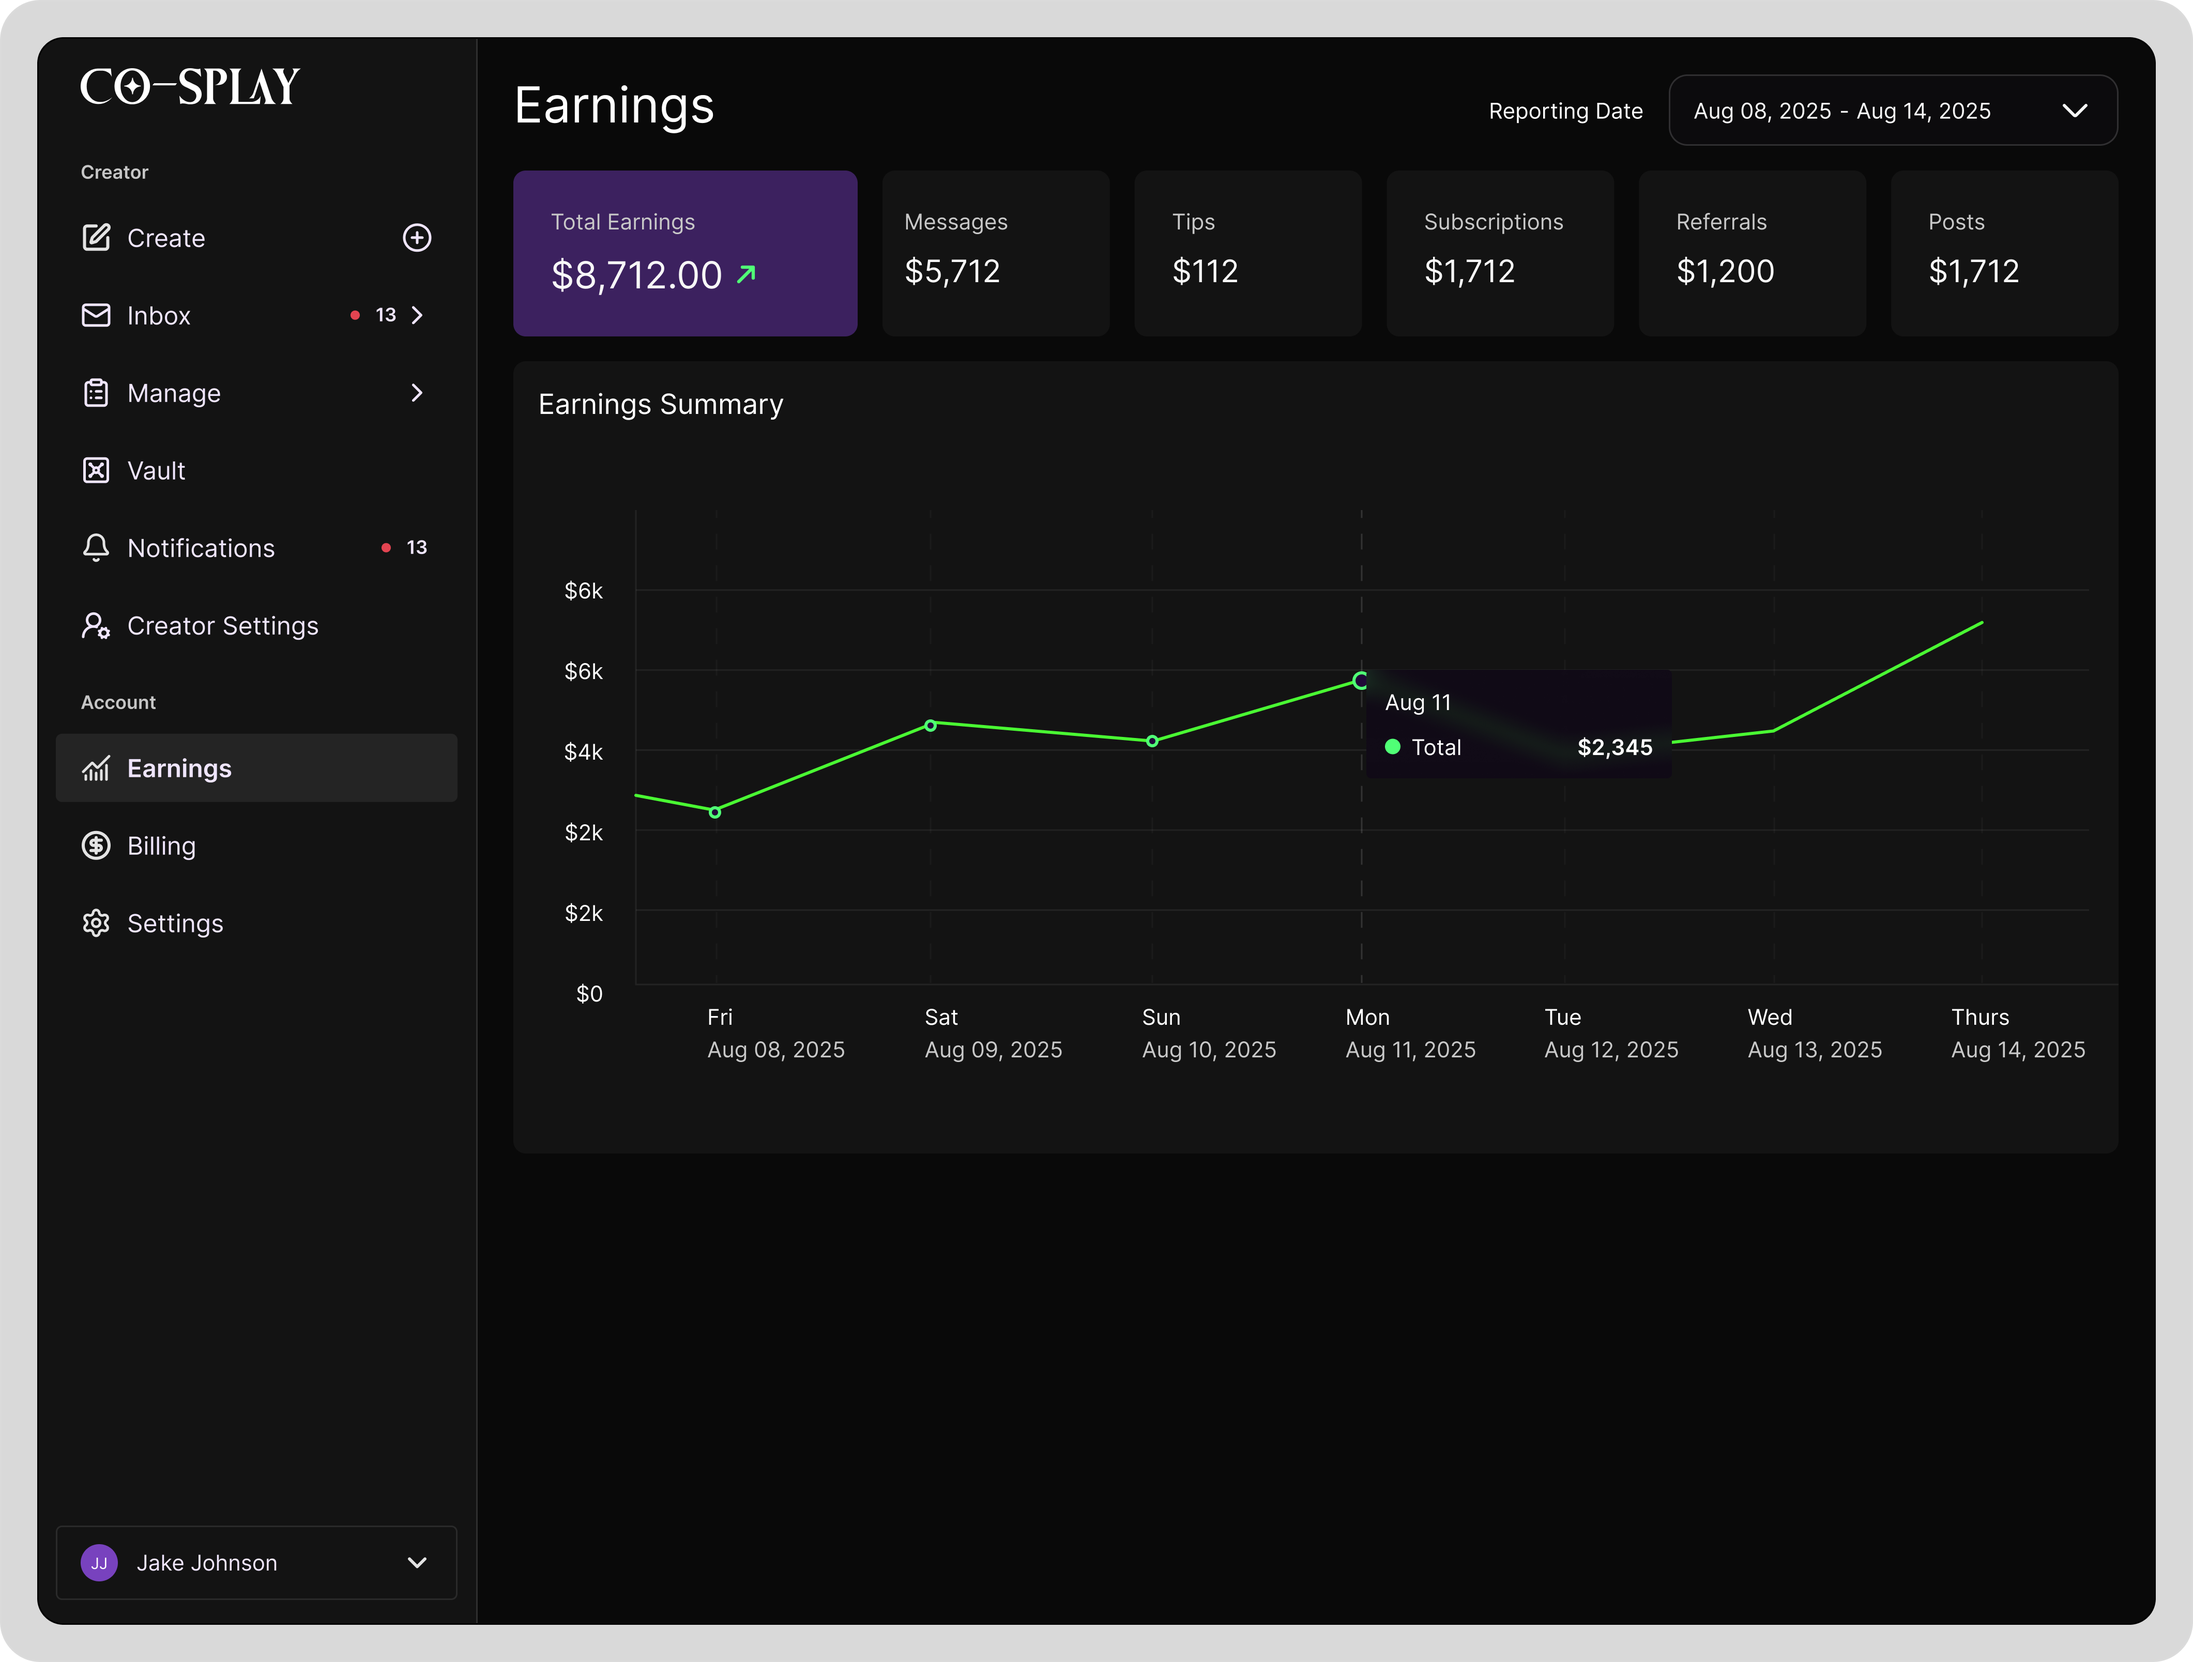
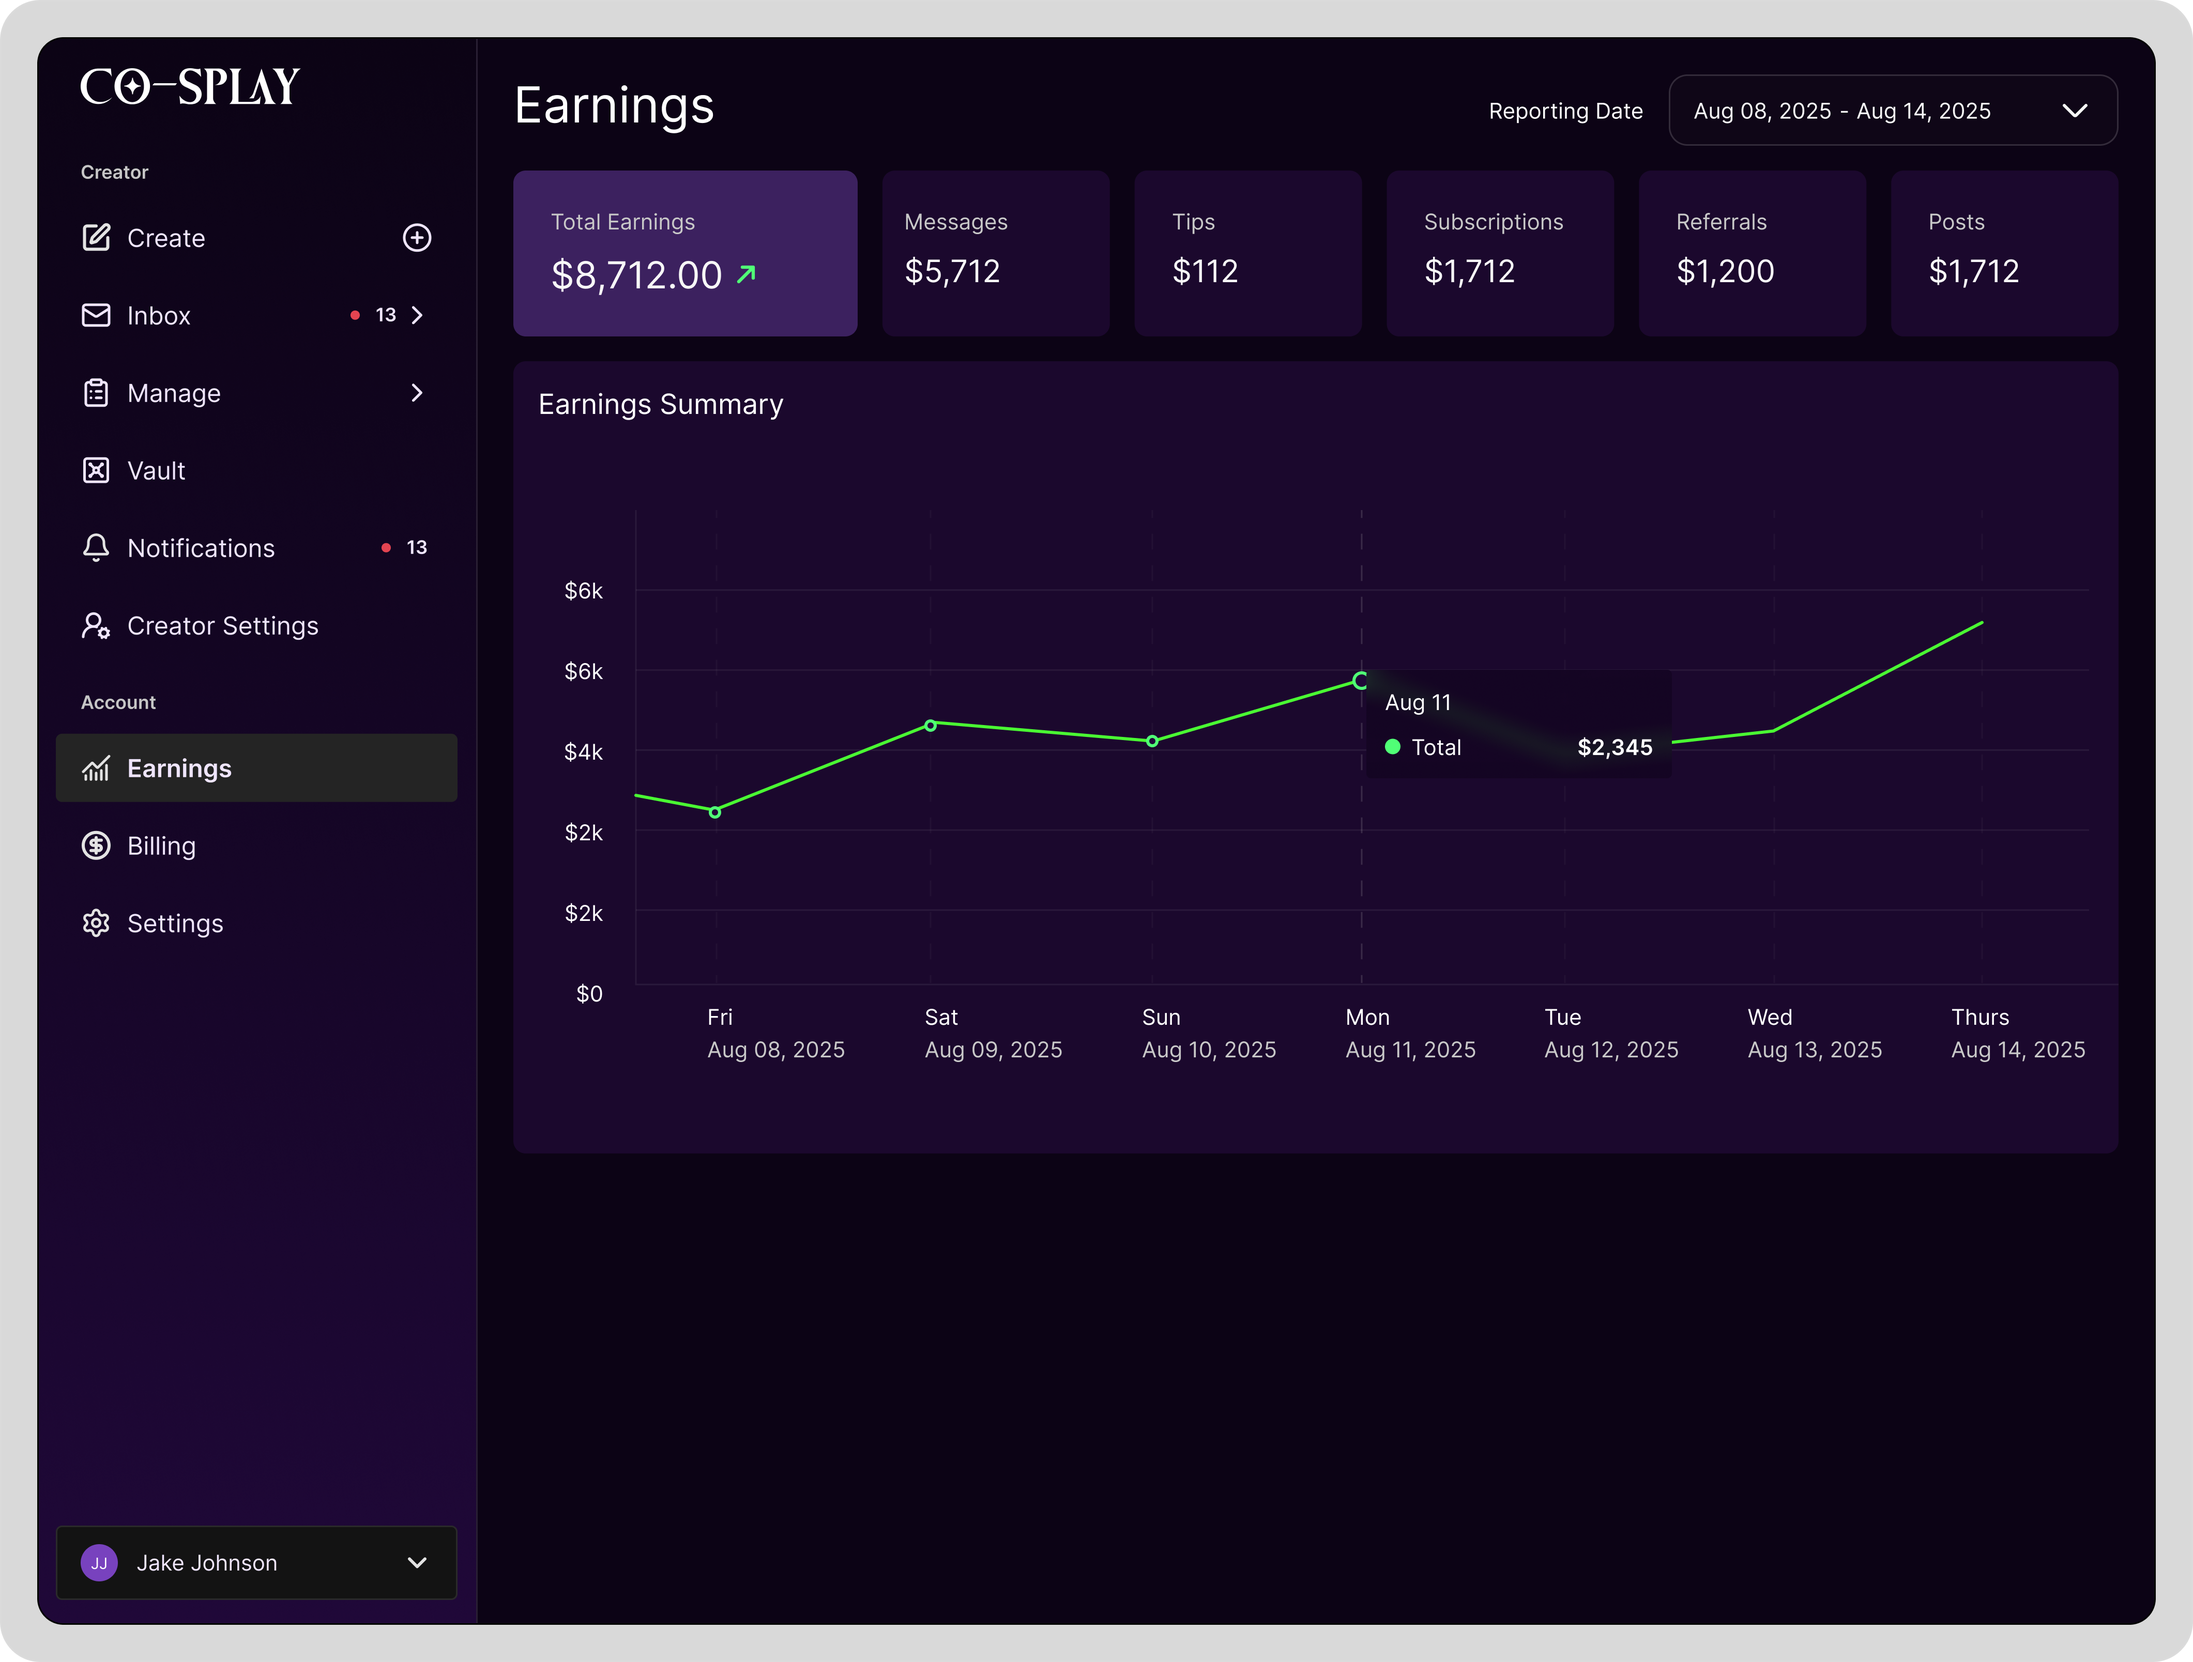
updated colors and images to purple

diff --git a/app/mesh.css b/app/mesh.css
@@ -1,26 +1,26 @@
 @keyframes hero-gradient-animation {
     0% {
         --x-0: 20%;
-        --c-0: hsla(0, 0%, 0%, 1);
+        --c-0: rgb(54, 15, 66);
         --y-0: 55%;
         --s-start-0: 13%;
         --s-end-0: 67%;
         --y-1: 19%;
-        --c-1: hsla(317.7149055750353, 82%, 8%, 1);
+        --c-1: rgb(61, 13, 47);
         --s-start-1: 16%;
         --s-end-1: 58%;
         --x-1: 26%;
         --s-start-2: 2%;
         --s-end-2: 60%;
-        --c-2: hsla(302, 71%, 29%, 1);
+        --c-2: rgb(94, 14, 91);
         --x-2: 37%;
         --y-2: 0%;
-        --c-3: hsla(210, 53%, 5%, 1);
+        --c-3: rgb(53, 22, 68);
         --x-3: 38%;
         --s-start-3: 19%;
         --s-end-3: 85%;
         --y-3: 72%;
-        --c-4: hsla(317.0000000000001, 49%, 3%, 1);
+        --c-4: rgb(53, 16, 42);
         --s-start-4: 5%;
         --s-end-4: 61%;
         --x-4: 39%;
@@ -29,12 +29,12 @@
 
     100% {
         --x-0: 80%;
-        --c-0: hsla(0, 0%, 0%, 1);
+        --c-0: rgb(65, 16, 58);
         --y-0: 53%;
         --s-start-0: 15;
         --s-end-0: 60;
         --y-1: 35%;
-        --c-1: hsla(317.7075859160568, 87%, 3%, 1);
+        --c-1: rgb(75, 15, 57);
         --s-start-1: 15;
         --s-end-1: 60;
         --x-1: 66%;
@@ -43,12 +43,12 @@
         --c-2: hsla(277.94117647058823, 85%, 30%, 1);
         --x-2: 63%;
         --y-2: 85%;
-        --c-3: hsla(210, 53%, 5%, 1);
+        --c-3: rgb(64, 35, 112);
         --x-3: 92%;
         --s-start-3: 15;
         --s-end-3: 60;
         --y-3: 97%;
-        --c-4: hsla(317.0000000000001, 49%, 3%, 1);
+        --c-4: rgb(68, 21, 55);
         --s-start-4: 15;
         --s-end-4: 60;
         --x-4: 42%;
@@ -65,7 +65,7 @@
 @property --c-0 {
     syntax: '<color>';
     inherits: false;
-    initial-value: hsla(0, 0%, 0%, 1)
+    initial-value: rgb(53, 13, 88)
 }
 
 @property --y-0 {
@@ -95,7 +95,7 @@
 @property --c-1 {
     syntax: '<color>';
     inherits: false;
-    initial-value: hsla(317.7149055750353, 82%, 8%, 1)
+    initial-value: rgb(58, 7, 43)
 }
 
 @property --s-start-1 {
@@ -149,7 +149,7 @@
 @property --c-3 {
     syntax: '<color>';
     inherits: false;
-    initial-value: hsla(210, 53%, 5%, 1)
+    initial-value: rgb(48, 18, 61)
 }
 
 @property --x-3 {
@@ -179,7 +179,7 @@
 @property --c-4 {
     syntax: '<color>';
     inherits: false;
-    initial-value: hsla(317.0000000000001, 49%, 3%, 1)
+    initial-value: rgb(65, 23, 53)
 }
 
 @property --s-start-4 {
@@ -208,22 +208,22 @@
 
 .mesh-background {
     --x-0: 20%;
-    --c-0: hsla(0, 0%, 0%, 1);
+    --c-0: rgb(78, 15, 59);
     --y-0: 55%;
     --y-1: 19%;
-    --c-1: hsla(317.7149055750353, 82%, 8%, 1);
+    --c-1: rgb(65, 10, 48);
     --x-1: 26%;
     --c-2: rgb(68, 13, 66);
     --x-2: 37%;
     --y-2: 0%;
-    --c-3: hsla(210, 53%, 5%, 1);
+    --c-3: rgb(77, 29, 88);
     --x-3: 38%;
     --y-3: 72%;
-    --c-4: hsla(317.0000000000001, 49%, 3%, 1);
+    --c-4: rgb(63, 20, 51);
     --x-4: 39%;
     --y-4: 60%;
     ;
-    background-color: hsla(258.5147164101409, 70%, 15%, 1);
+    background-color: rgb(85, 26, 112);
     background-image: radial-gradient(circle at var(--x-0) var(--y-0), var(--c-0) var(--s-start-0), transparent var(--s-end-0)), radial-gradient(circle at var(--x-1) var(--y-1), var(--c-1) var(--s-start-1), transparent var(--s-end-1)), radial-gradient(circle at var(--x-2) var(--y-2), var(--c-2) var(--s-start-2), transparent var(--s-end-2)), radial-gradient(circle at var(--x-3) var(--y-3), var(--c-3) var(--s-start-3), transparent var(--s-end-3)), radial-gradient(circle at var(--x-4) var(--y-4), var(--c-4) var(--s-start-4), transparent var(--s-end-4));
     animation: hero-gradient-animation 10s linear infinite alternate;
     background-blend-mode: normal, normal, normal, normal, normal;

diff --git a/components/ScrollAnimationSection.tsx b/components/ScrollAnimationSection.tsx
@@ -15,6 +15,21 @@ const ScrollAnimationSection = () => {
     const deviceRef = useRef<HTMLDivElement>(null);
     const sharedContainerRef = useRef<HTMLDivElement>(null);
 
+    React.useEffect(() => {
+        const video = videoRef.current;
+        if (!video) return;
+
+        const handleTimeUpdate = () => {
+            if (video.currentTime >= 3) {
+                video.currentTime = 0;
+                video.play();
+            }
+        };
+
+        video.addEventListener("timeupdate", handleTimeUpdate);
+        return () => video.removeEventListener("timeupdate", handleTimeUpdate);
+    }, []);
+
     useGSAP(
         () => {
             const tl = gsap.timeline({
@@ -100,7 +115,7 @@ const ScrollAnimationSection = () => {
                     >
                         <div className="relative w-full h-full">
                             <Image
-                                src="/ipad_newpost.webp"
+                                src="/ipad_newpost2.webp"
                                 alt="Device Frame"
                                 fill
                                 className="object-contain"

diff --git a/components/Navbar.tsx b/components/Navbar.tsx
@@ -21,7 +21,7 @@ const Navbar = () => {
                     className="flex items-center hover:opacity-80 transition-opacity"
                 >
                     <Image
-                        src="/logo-white.svg"
+                        src="/logo.svg"
                         alt="Co-Splay Logo"
                         width={120}
                         height={40}
